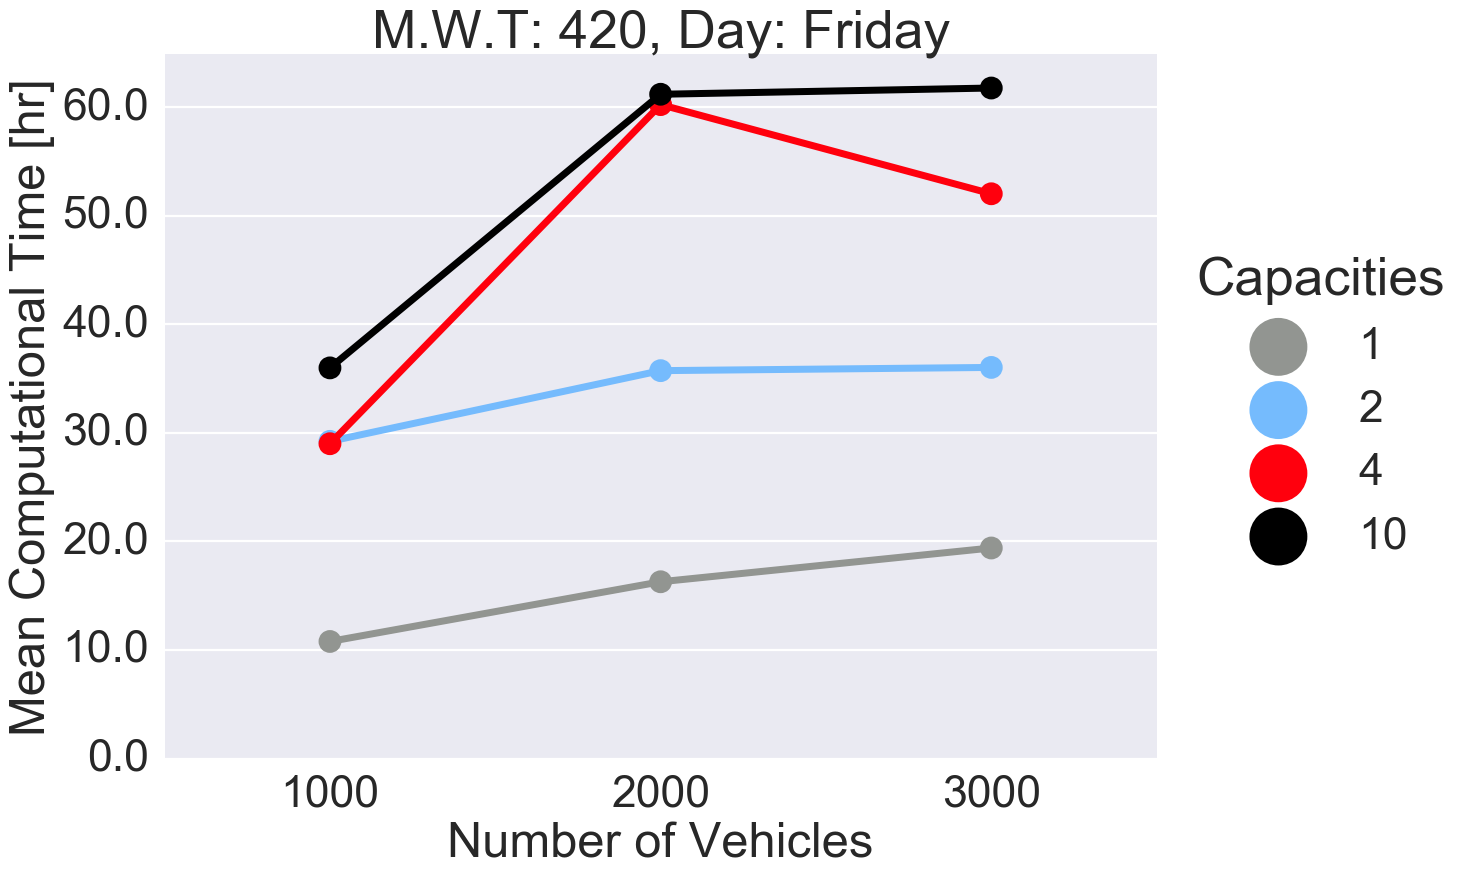
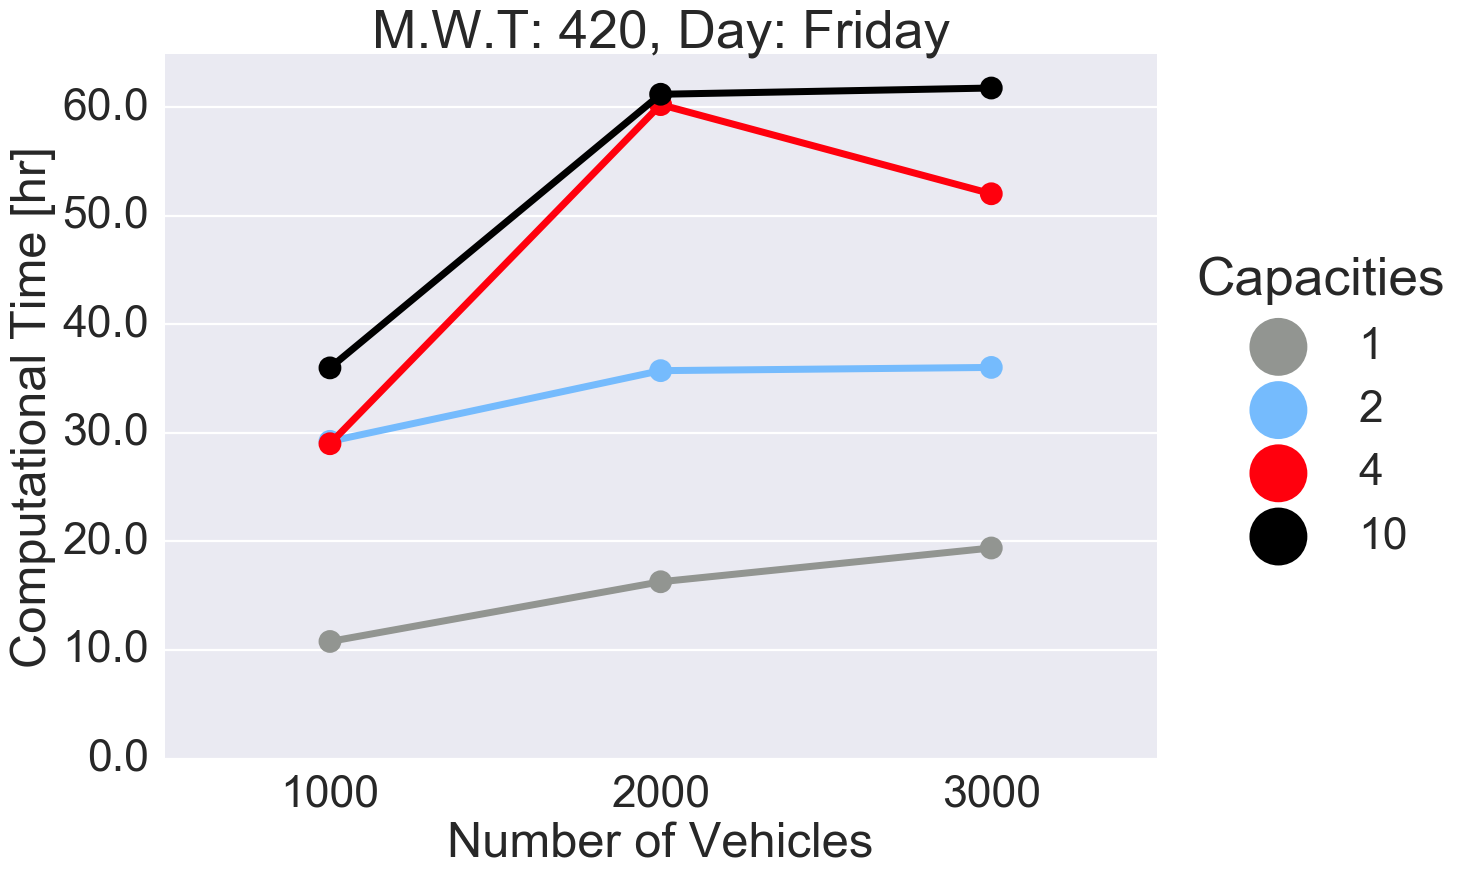
Update ylabel

Changed region(s): [[0.0, 0.0924, 0.0625, 0.862]]

diff --git a/scripts/plot_metrics.py b/scripts/plot_metrics.py
@@ -403,7 +403,7 @@ def make_comp_times_plot(df, wt, day):
                        data=df_small, palette=clrs)
     ax.set_xticklabels(vehicles)
     ax.set_xlabel("Number of Vehicles")
-    ax.set_ylabel("Mean Computational Time [hr]")
+    ax.set_ylabel("Computational Time [hr]")
     ax.set_ylim(0, 1.05 * max(df_small["comp_time"]))
     plt.title("M.W.T: {}, Day: {}".format(wt, days[day]))
     vals = ax.get_yticks()
